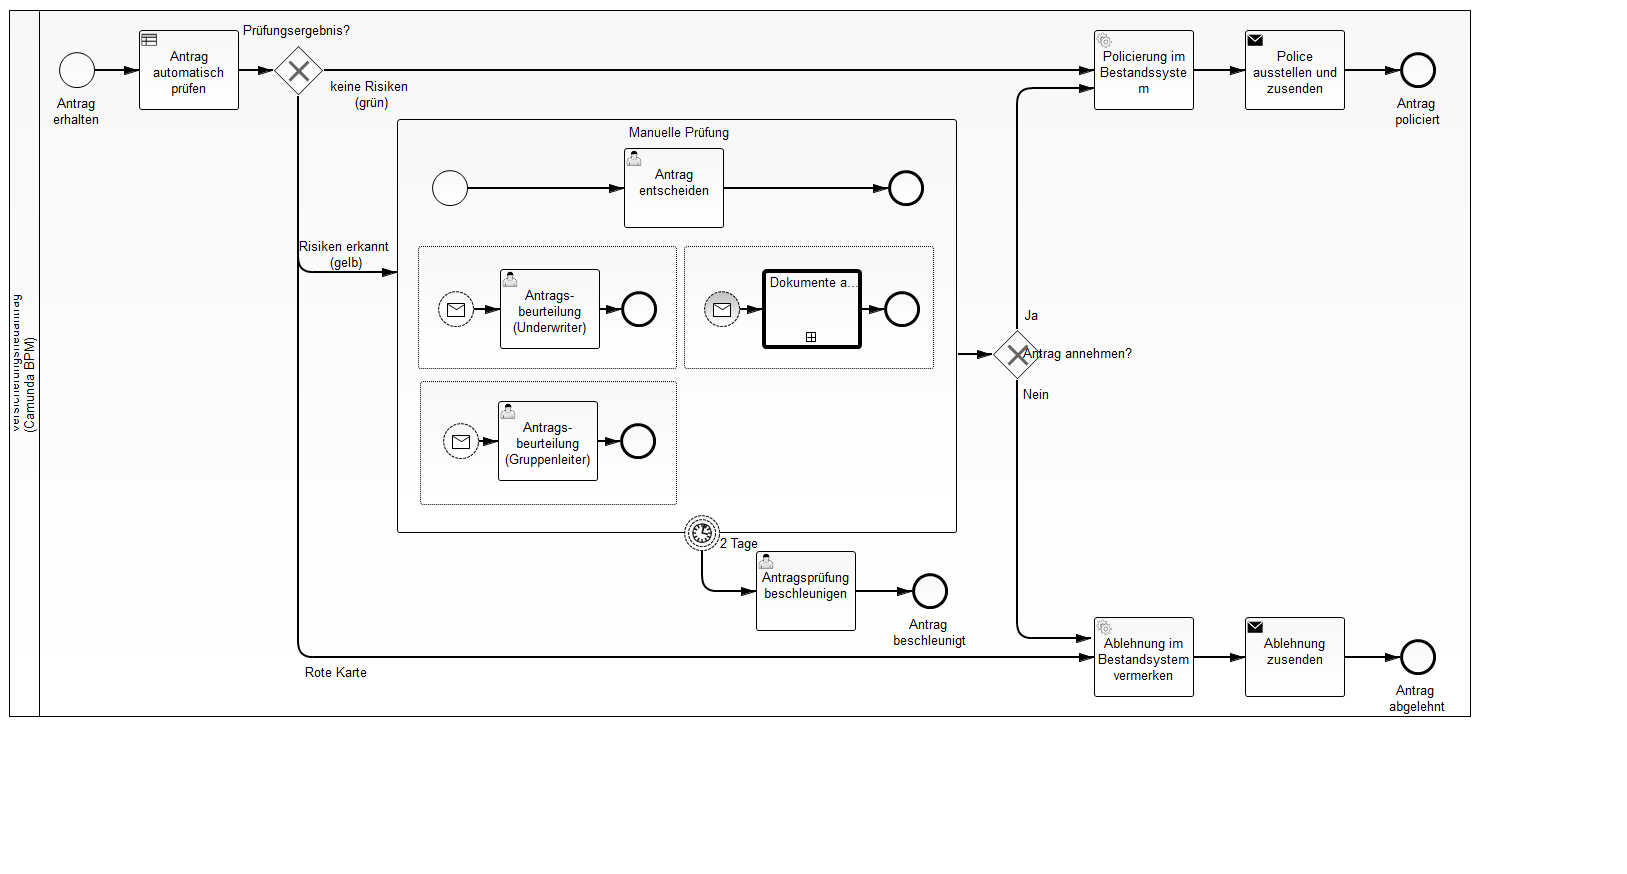
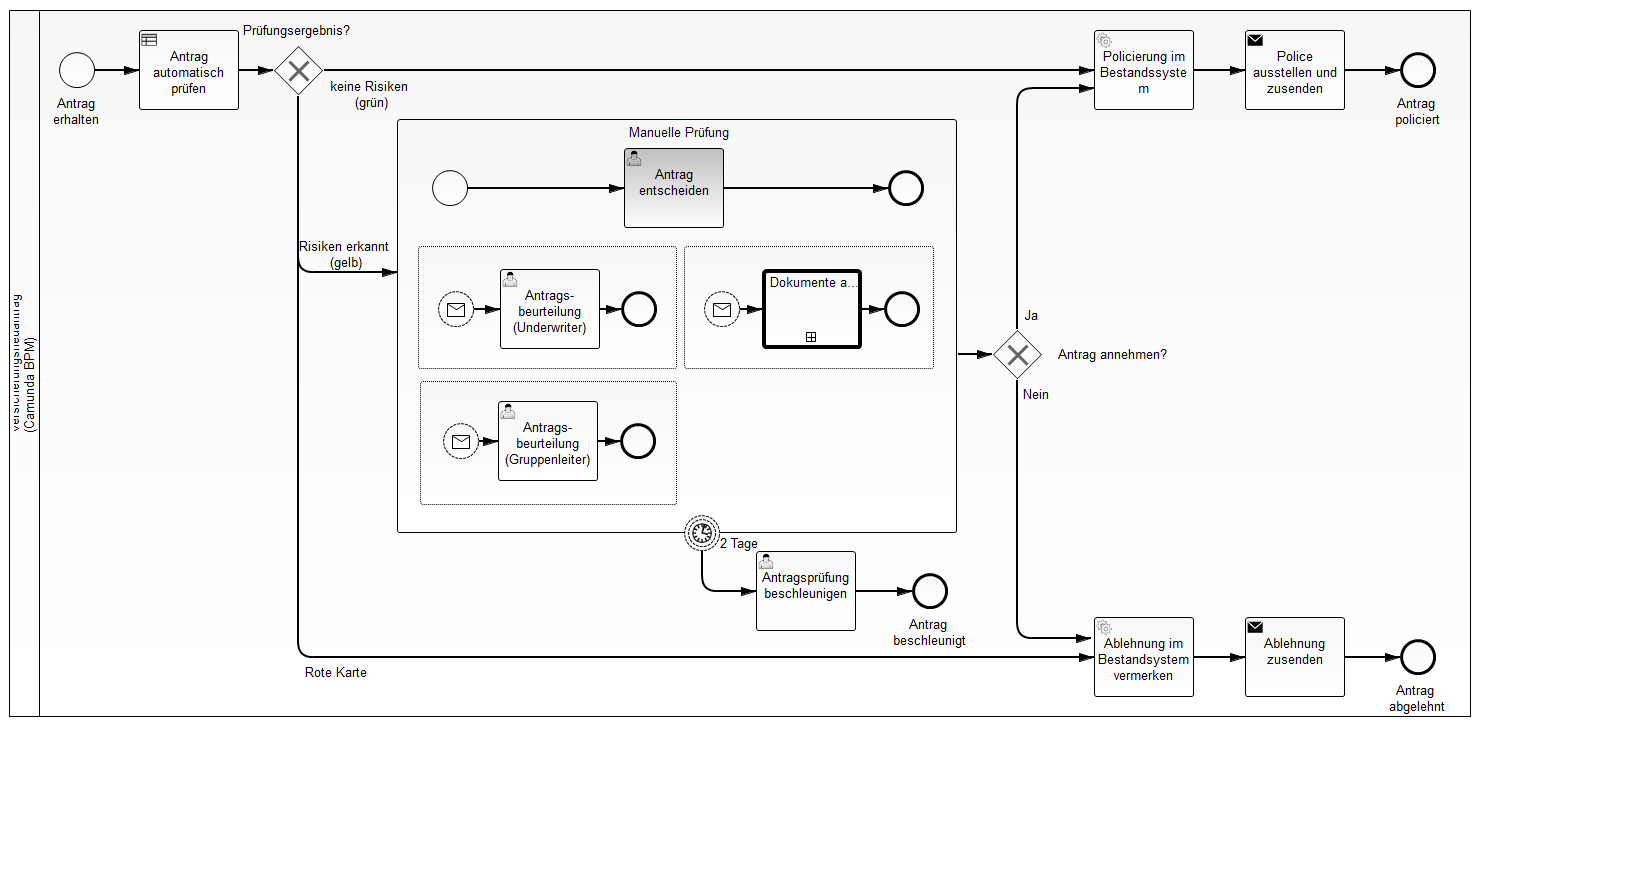
added listeners, improve forms

diff --git a/showcases/de/versicherungsneuantrag/process-application/src/main/webapp/forms/decide.html b/showcases/de/versicherungsneuantrag/process-application/src/main/webapp/forms/decide.html
@@ -46,10 +46,12 @@
             
             <h2>Risiken</h2>
             Folgende Risiken haben zur Aussteuerung geführt:
-            <ul>
-              <li ng-repeat="risk in risks">{{risk}}</li>
-			</ul>  
-			
+   		    <table class="table table-striped table-hover">
+			  <tr ng-repeat="risk in risks">
+			  	<td>{{risk}}</td>
+			  </tr>
+			</table>
+						
             <h2>Beurteilung(en)</h2>
             <textarea class="form-control" 
        				cam-variable-name="beurteilung"
@@ -62,49 +64,8 @@
        			    cam-variable-type="Boolean" />
          </div>
          <div class="col-lg-6 col-md-6 col-sm-6 col-xs-12">
-			  <h2>Weitere Aktivitäten starten</h2>
-			  <div class="form-group"> 			  
-			  	<label>Mitzugebene Hinweise:</label>
-			  	<textarea id="textareaHinweise" class="form-control"></textarea>
-			  </div>
-			  
-			  <table class="table table-striped table-hover">
-			    <tr>
-				    <td>
-				    	<i class="glyphicon glyphicon-user"></i>
-				    </td>
-				    <td>
-				    	Beurteilung durch Underwriter notwendig
-				    </td>	  
-				    <td>
-				        <a ng-click="sendMessage('MSG_UnderwriterNotwendig')"><i class="glyphicon glyphicon-play"></i></a>
-				    </td>
-				  </tr>
-			    <tr>
-				    <td>
-				    	<i class="glyphicon glyphicon-user"></i>
-				    </td>
-				    <td>
-				    	Beurteilung durch Gruppenleiter notwendig
-				    </td>	  
-				    <td>
-				        <a ng-click="sendMessage('MSG_GruppenleiterNotwendig')"><i class="glyphicon glyphicon-play"></i></a>
-				    </td>
-				  </tr>
-			    <tr>
-				    <td>
-				    	<i class="glyphicon glyphicon-cog"></i>
-				    </td>
-				    <td>
-				    	Dokumente anfordern
-				    </td>	  
-				    <td>
-				        <a ng-click="sendMessage('MSG_DokumenteNotwendig')"><i class="glyphicon glyphicon-play"></i></a>
-				    </td>
-				  </tr>
-			  </table>
 
-			  <h2>Bereits laufende Aktivitäten</h2>
+		      <h2>Laufende Aktivitäten</h2>
 			  <table class="table table-striped table-hover">
 					  <tr ng-if="execution.activityType!='subProcess'" ng-repeat="execution in activeExecutions" >
 					    <td>			    
@@ -115,11 +76,64 @@
 					    	{{execution.activityName}}
 					    </td>	  
 					  </tr>
-			  </table>			  
+			  </table>
+
+
+			  <h2>Aktivität starten</h2>
+			  <div class="row">
+			      <div class="col-lg-6 col-md-6 col-sm-6 col-xs-12">			 
+					  <div class="form-group"> 			  
+					  	<label>Mitzugebene Hinweise:</label>
+					  	<textarea id="textareaHinweise" rows="5" class="form-control"></textarea>
+					  </div>
+				  </div>
+				  <div class="col-lg-6 col-md-6 col-sm-6 col-xs-12">
+						  			  
+					  <table class="table table-striped table-hover">
+					    <tr>
+						    <td>
+						    	<i class="glyphicon glyphicon-user"></i>
+						    </td>
+						    <td>
+						    	Beurteilung durch Underwriter notwendig
+						    </td>	  
+						    <td>
+						        <a ng-click="sendMessage('MSG_UnderwriterNotwendig')"><i class="glyphicon glyphicon-play"></i></a>
+						    </td>
+						  </tr>
+					    <tr>
+						    <td>
+						    	<i class="glyphicon glyphicon-user"></i>
+						    </td>
+						    <td>
+						    	Beurteilung durch Gruppenleiter notwendig
+						    </td>	  
+						    <td>
+						        <a ng-click="sendMessage('MSG_GruppenleiterNotwendig')"><i class="glyphicon glyphicon-play"></i></a>
+						    </td>
+						  </tr>
+					    <tr>
+						    <td>
+						    	<i class="glyphicon glyphicon-cog"></i>
+						    </td>
+						    <td>
+						    	Dokumente anfordern
+						    </td>	  
+						    <td>
+						        <a ng-click="sendMessage('MSG_DokumenteNotwendig')"><i class="glyphicon glyphicon-play"></i></a>
+						    </td>
+						  </tr>
+					  </table>
+					</div>
+				<div>
+			  			  
          </div>
      </div>
  
  <script cam-script type="text/form-script">
+   inject([ '$location', function($location) {
+
+ 
 	 function loadCaseStatus() {
   	   $.get( '/camunda/api/engine/engine/default/task/' + camForm.taskId, function( task ) {
 	  	   $.get( '/camunda/api/engine/engine/default/history/activity-instance?processInstanceId=' + task.processInstanceId + '&unfinished=true', function( result2 ) {
@@ -153,11 +167,19 @@
 		         type : 'POST',
 		         success: function (result) {
 		            loadCaseStatus();
+		            
+		            // reload task
+					$location.search('task', camForm.taskId);
+
+					// hardocore reload :-)
+		            window.location.reload();
 		         }
 		    });
 	 };
 	 
+	 
 
+	   }]);
   </script>
 
 <!--

diff --git a/showcases/de/versicherungsneuantrag/process-application/src/main/java/com/camunda/demo/versicherungsneuantrag/adapter/DeactivateFollowUpDateListener.java b/showcases/de/versicherungsneuantrag/process-application/src/main/java/com/camunda/demo/versicherungsneuantrag/adapter/DeactivateFollowUpDateListener.java
@@ -1,0 +1,34 @@
+package com.camunda.demo.versicherungsneuantrag.adapter;
+
+import java.util.logging.Level;
+import java.util.logging.Logger;
+
+import org.camunda.bpm.engine.delegate.DelegateExecution;
+import org.camunda.bpm.engine.delegate.ExecutionListener;
+import org.camunda.bpm.engine.task.Task;
+
+public class DeactivateFollowUpDateListener implements ExecutionListener {
+  
+  private Logger LOG = Logger.getLogger(DeactivateFollowUpDateListener.class.getName());
+
+  @Override
+  public void notify(DelegateExecution execution) throws Exception {
+    try {
+      // find the according task
+      Task task = execution.getProcessEngineServices().getTaskService().createTaskQuery() //
+        .processInstanceId(execution.getProcessInstanceId())
+        .taskDefinitionKey("userTaskAntragEntscheiden") // TODO: Think about it
+        .singleResult();
+      
+      // Remove a follow-up date
+      task.setFollowUpDate(null);
+      execution.getProcessEngineServices().getTaskService().saveTask(task);
+    }
+    catch (Exception ex) {
+      // ignore exception to avoid problems because of canceled tasks or the like
+      LOG.log(Level.INFO, "Could not deactivate follow-up date of decision task, maybe already ended?", ex);
+    }
+  }
+
+
+}

diff --git a/showcases/de/versicherungsneuantrag/process-application/src/main/java/com/camunda/demo/versicherungsneuantrag/adapter/ActivateFollowUpDateListener.java b/showcases/de/versicherungsneuantrag/process-application/src/main/java/com/camunda/demo/versicherungsneuantrag/adapter/ActivateFollowUpDateListener.java
@@ -1,0 +1,33 @@
+package com.camunda.demo.versicherungsneuantrag.adapter;
+
+import java.util.Calendar;
+
+import org.camunda.bpm.engine.delegate.CaseExecutionListener;
+import org.camunda.bpm.engine.delegate.DelegateCaseExecution;
+import org.camunda.bpm.engine.delegate.DelegateExecution;
+import org.camunda.bpm.engine.delegate.ExecutionListener;
+import org.camunda.bpm.engine.runtime.CaseExecution;
+import org.camunda.bpm.engine.task.Task;
+
+public class ActivateFollowUpDateListener implements ExecutionListener {
+
+  @Override
+  public void notify(DelegateExecution execution) throws Exception {
+    // Calculate follow-up date
+    Calendar followUpCal = Calendar.getInstance();
+    followUpCal.add(Calendar.DAY_OF_YEAR, 7); // TODO: Make configurable
+        
+    // find the according task
+    Task task = execution.getProcessEngineServices().getTaskService().createTaskQuery() //
+      .processInstanceId(execution.getProcessInstanceId())
+      .taskDefinitionKey("userTaskAntragEntscheiden") // TODO: Think about it
+      .singleResult();
+    
+    // Set a follow-up date
+    task.setFollowUpDate(followUpCal.getTime());
+    execution.getProcessEngineServices().getTaskService().saveTask(task);
+  }
+
+ 
+
+}
